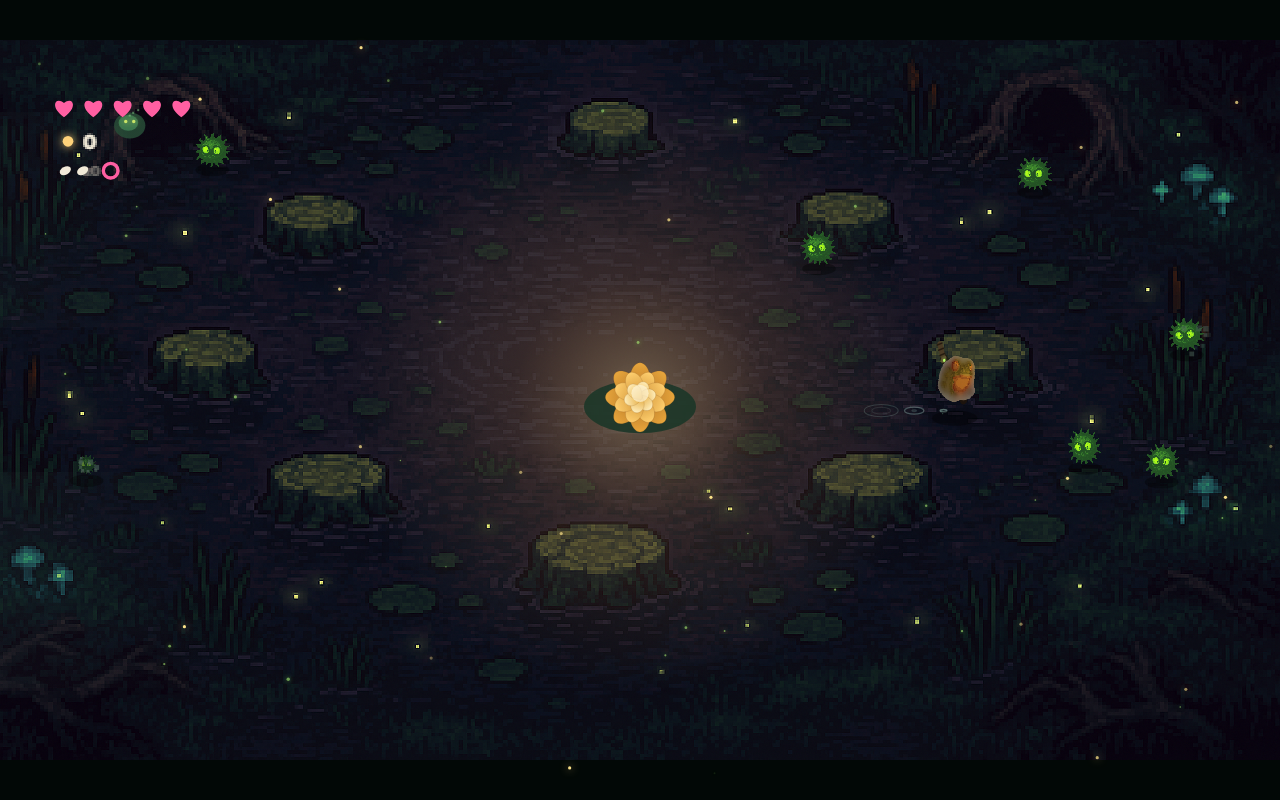
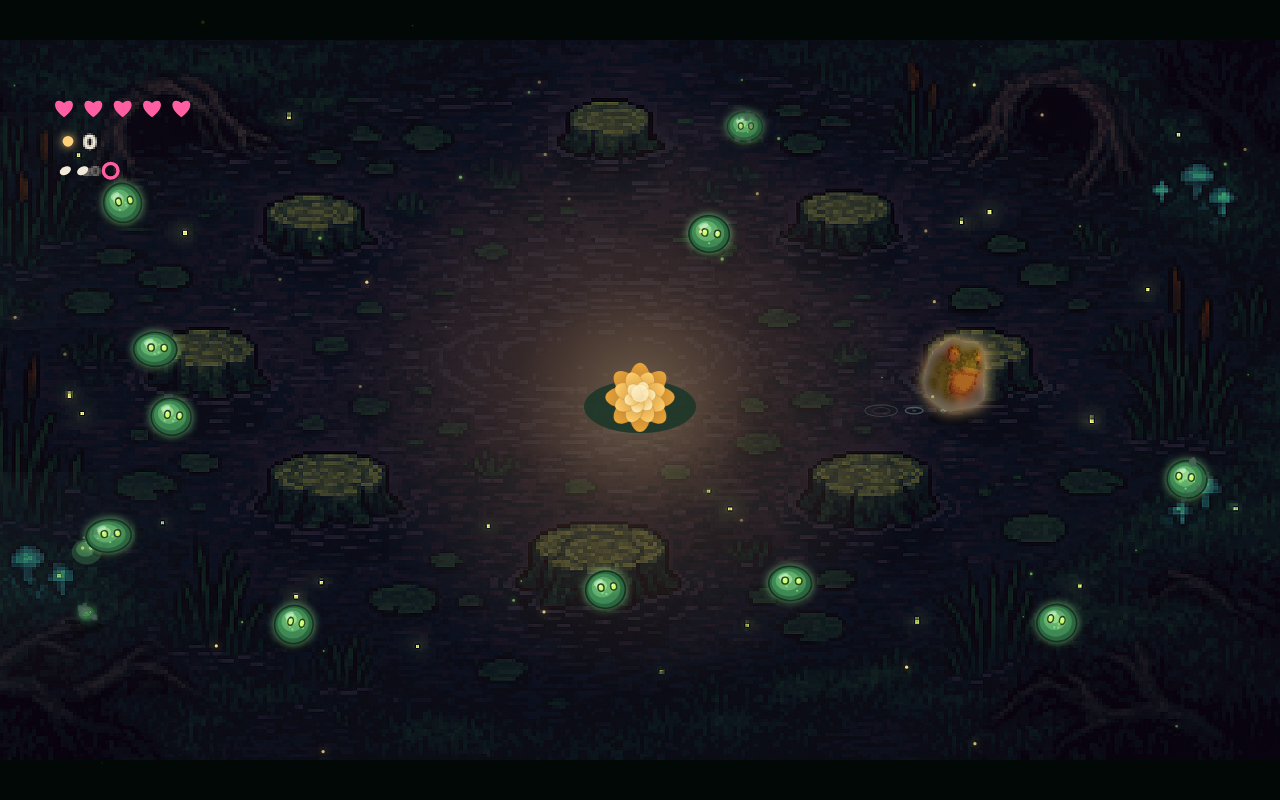
Gate round 2 (avg 6.25): lingering slash VFX + hit impact + muted lively slimes
R2 panel avg 6.25 (+0.75). Unanimous #1 gap: combat impact. Fixes:
- Lingering katana SLASH VFX (slashFx): hot crescent + razor white edge persists
  ~0.22s after each swing so the combat verb reads in motion AND stills (carnage
  shot now shows the frog carving a slime cluster). Biggest win.
- Hit-flash 0.1->0.16s + bright white glow-spark burst on contact.
- Slimes: muted grass-green (was mint, broke palette), wider edge->core shading +
  darker outline, desynced idle bob + stronger wobble (killed the clone hive-mind).
- Attack telegraph -> hot RED core (was gold, clashed w/ hero+loot).
- Frog rim softened (was haloed). Capsule capture phase1-02-swing (frog mid-swing).
Scores + open items in docs/GRADES.md. 23 tests green, typecheck clean, QA no errors.

diff --git a/src/render/render.ts b/src/render/render.ts
@@ -319,6 +319,57 @@ function drawSprite(ctx: CanvasRenderingContext2D, im: HTMLImageElement, x: numb
 // ---------- dash afterimages (render-local trail) ----------
 const trail: { x: number; y: number; life: number }[] = [];
 
+// ---------- lingering slash VFX (bright katana crescent that persists after a swing) ----------
+// Emitted the frame a swing goes active; fades over ~0.22s so the cut reads in motion AND in a
+// still frame (critics: swing is invisible / combat has no impact). One per swing (tick-guarded).
+interface SlashFx { x: number; y: number; a0: number; a1: number; reach: number; kind: 'light' | 'medium' | 'heavy'; t: number; life: number }
+const slashFx: SlashFx[] = [];
+let lastSlashTick = -1;
+let lastRenderTime = 0;
+
+function pushSlash(w: World, fx: number, fy: number): void {
+  const atk = w.frog.attack;
+  if (atk.phase !== 'active' || atk.frame !== 0 || w.tick === lastSlashTick || !atk.data) return;
+  lastSlashTick = w.tick;
+  const dir = atk.chainIdx % 2 === 0 ? 1 : -1;
+  const half = atk.data.arc / 2;
+  slashFx.push({ x: fx, y: fy, a0: atk.angle - dir * half, a1: atk.angle + dir * half, reach: atk.data.reach, kind: atk.data.cls, t: 0, life: 0.22 });
+  if (slashFx.length > 8) slashFx.shift();
+}
+
+function drawSlashFx(ctx: CanvasRenderingContext2D, time: number): void {
+  const dt = Math.min(0.05, Math.max(0, time - lastRenderTime));
+  lastRenderTime = time;
+  for (let i = slashFx.length - 1; i >= 0; i--) {
+    const s = slashFx[i];
+    s.t += dt;
+    if (s.t >= s.life) { slashFx.splice(i, 1); continue; }
+    const k = s.t / s.life;                       // 0->1
+    const fade = 1 - k;
+    const hot = s.kind === 'heavy' ? '255,214,120' : s.kind === 'medium' ? '255,232,150' : '190,255,150';
+    const r0 = s.reach * (0.5 + k * 0.12), r1 = s.reach * (1.02 + k * 0.1);   // expands slightly as it fades
+    ctx.save();
+    ctx.translate(s.x, s.y);
+    // hot crescent band
+    ctx.beginPath();
+    ctx.arc(0, 0, r1, s.a0, s.a1);
+    ctx.arc(0, 0, r0, s.a1, s.a0, true);
+    ctx.closePath();
+    const g = ctx.createRadialGradient(0, 0, r0, 0, 0, r1);
+    g.addColorStop(0, `rgba(${hot},0)`);
+    g.addColorStop(0.6, `rgba(${hot},${0.28 * fade})`);
+    g.addColorStop(1, `rgba(255,255,245,${0.5 * fade})`);
+    ctx.fillStyle = g;
+    ctx.fill();
+    // razor-thin ultra-bright leading edge at the arc's far side
+    ctx.globalCompositeOperation = 'lighter';
+    ctx.strokeStyle = `rgba(255,255,248,${0.9 * fade})`;
+    ctx.lineWidth = (s.kind === 'heavy' ? 5 : 3) * (1 - k * 0.4);
+    ctx.beginPath(); ctx.arc(0, 0, r1, s.a0, s.a1); ctx.stroke();
+    ctx.restore();
+  }
+}
+
 // ---------- main draw ----------
 export function draw(ctx: CanvasRenderingContext2D, w: World, cw: number, ch: number, alpha: number, time: number, paused: boolean) {
   if (!backdrop) backdrop = buildBackdrop();
@@ -430,6 +481,9 @@ export function draw(ctx: CanvasRenderingContext2D, w: World, cw: number, ch: nu
     ctx.beginPath(); ctx.ellipse(t.x, t.y, FROG_RADIUS * 0.9, FROG_RADIUS * 0.7, 0, 0, Math.PI * 2); ctx.fill();
   }
 
+  // lingering katana slashes (drawn over entities for punch)
+  drawSlashFx(ctx, time);
+
   // particles
   for (const p of particles) {
     ctx.globalAlpha = Math.max(0, p.life / p.maxLife);
@@ -460,6 +514,7 @@ function drawFrog(ctx: CanvasRenderingContext2D, w: World, fx: number, fy: numbe
     return;
   }
   const atk = f.attack;
+  pushSlash(w, fx, fy);                    // emit a lingering slash the frame a swing goes active
   const speed = Math.hypot(f.vx, f.vy);
   const moving = speed > 20 && f.dashT <= 0;
   // hop arc: 0 at ground contact -> 1 at apex -> 0, once per hop. Drives lift + squash/stretch.
@@ -515,8 +570,8 @@ function drawFrog(ctx: CanvasRenderingContext2D, w: World, fx: number, fy: numbe
     const dw = h * (frogImg.width / frogImg.height);
     const bx = -dw / 2, by = -h * 0.66;
     ctx.imageSmoothingEnabled = false;
-    // warm rim/hero-glow so the frog always pops off the stumps + water (value contrast)
-    ctx.shadowColor = 'rgba(255,206,130,0.95)'; ctx.shadowBlur = 16;
+    // soft warm rim so the frog reads lit (not haloed) and pops off the dark water
+    ctx.shadowColor = 'rgba(255,198,124,0.7)'; ctx.shadowBlur = 11;
     ctx.drawImage(frogImg, bx, by, dw, h);
     ctx.shadowBlur = 0;
     ctx.drawImage(frogImg, bx, by, dw, h);             // crisp body on top of the halo
@@ -698,24 +753,26 @@ function drawSwordAt(ctx: CanvasRenderingContext2D, w: World, time: number) {
 function drawAttackTell(ctx: CanvasRenderingContext2D, x: number, y: number, radius: number, p: number) {
   const rr = radius * (0.55 + p * 0.45);
   ctx.save();
-  const g = ctx.createRadialGradient(x, y, rr * 0.2, x, y, rr);
-  g.addColorStop(0, `rgba(255,120,60,${0.04 + p * 0.22})`);
-  g.addColorStop(0.75, `rgba(240,80,50,${0.03 + p * 0.14})`);
-  g.addColorStop(1, 'rgba(240,80,50,0)');
+  const g = ctx.createRadialGradient(x, y, rr * 0.15, x, y, rr);
+  g.addColorStop(0, `rgba(255,54,44,${0.08 + p * 0.3})`);      // hot red core = "danger" (not gold/loot)
+  g.addColorStop(0.7, `rgba(230,70,44,${0.03 + p * 0.14})`);
+  g.addColorStop(1, 'rgba(230,70,44,0)');
   ctx.fillStyle = g;
   ctx.beginPath(); ctx.ellipse(x, y, rr, rr * 0.55, 0, 0, Math.PI * 2); ctx.fill();
   // filling wedge sweep (clock hand) so the timing reads
-  ctx.strokeStyle = `rgba(255,190,120,${0.35 + p * 0.55})`;
+  ctx.strokeStyle = `rgba(255,110,80,${0.4 + p * 0.55})`;
   ctx.lineWidth = 1.5 + p * 2.5;
   ctx.beginPath(); ctx.ellipse(x, y, rr, rr * 0.55, 0, -Math.PI / 2, -Math.PI / 2 + p * Math.PI * 2); ctx.stroke();
   ctx.restore();
 }
 
 // per-kind slime palettes (muted swamp greens, tonal bands edge->core for a shaded sphere)
+// Muted swamp-greens (grass, not cyan-mint) with a WIDE edge->core value range so the sphere
+// reads as shaded not flat, and dark outlines to sit in the palette (critics R2: too bright + flat).
 const SLIME_PAL: Record<string, { outline: string; edge: string; mid: string; hi: string; core: string; fleck: string }> = {
-  blobbit: { outline: '#153320', edge: '#2c6640', mid: '#3f8a54', hi: '#5fae6f', core: '#8fd693', fleck: 'rgba(160,245,160,0.6)' },
-  spikeblob: { outline: '#0e2618', edge: '#244f38', mid: '#356a48', hi: '#4d8a5c', core: '#72b481', fleck: 'rgba(130,215,150,0.5)' },
-  gloopa: { outline: '#1b2a12', edge: '#465838', mid: '#647a46', hi: '#8a9d5c', core: '#bccb86', fleck: 'rgba(205,225,150,0.5)' },
+  blobbit: { outline: '#0c2015', edge: '#1d4529', mid: '#316a3f', hi: '#54985a', core: '#83c877', fleck: 'rgba(150,235,140,0.5)' },
+  spikeblob: { outline: '#0a1c14', edge: '#1a4230', mid: '#2c5f42', hi: '#468456', core: '#6cae70', fleck: 'rgba(120,205,135,0.45)' },
+  gloopa: { outline: '#141f0e', edge: '#3a4a2c', mid: '#586a3c', hi: '#828f52', core: '#aec079', fleck: 'rgba(195,215,140,0.45)' },
 };
 
 /** A soft ROUND cute jelly slime: shaded tonal-band body, gloss, internal flecks, big glowing
@@ -723,7 +780,7 @@ const SLIME_PAL: Record<string, { outline: string; edge: string; mid: string; hi
 function drawSlime(ctx: CanvasRenderingContext2D, e: Enemy, r: number, time: number, warm: boolean) {
   const flash = e.flashT > 0;
   const P = SLIME_PAL[e.kind] ?? SLIME_PAL.blobbit;
-  const wob = 1 + Math.sin(time * 4 + e.seed * 10) * 0.045;   // jelly wobble
+  const wob = 1 + Math.sin(time * (3.4 + (e.seed % 0.7) * 3) + e.seed * 10) * 0.08;   // jelly wobble, desynced
   const rx = r * 1.04 * wob, ry = r * 0.94 / wob;
 
   // dark outline + soft bioluminescent rim (separates from dark water & foliage)
@@ -839,6 +896,9 @@ function drawEnemy(ctx: CanvasRenderingContext2D, e: Enemy, alpha: number, time:
     ctx.rotate(Math.sin(wadT) * 0.18);
     ctx.translate(0, -wadHop);
     ctx.scale(1 + Math.cos(wadT * 2) * 0.1, 1 - Math.cos(wadT * 2) * 0.1);
+  } else {
+    // idle bob — per-instance phase so a crowd never syncs (critics: "wall of clones")
+    ctx.translate(0, Math.sin(time * 2.4 + e.seed * 25) * r * 0.09);
   }
   if (e.flashT > 0) ctx.scale(1.3, 0.72);           // hard flatten recoil on hit (juice)
   drawSlime(ctx, e, r, time, warm);

diff --git a/src/feel/feel.ts b/src/feel/feel.ts
@@ -116,7 +116,8 @@ export function consumeEvents(w: World): void {
       case 'swingHeavy': sfx('swingHeavy'); break;
       case 'hit': {
         const ang = Math.atan2(e.dirY, e.dirX);
-        spawnParticles(e.x, e.y, 6, { angle: ang, spread: 0.9, speed: 260, color: '#fff', maxLife: 0.22, size: 3 });
+        // bright directional spark spray + a hot flash-ring at contact (impact reads)
+        spawnParticles(e.x, e.y, e.cls === 'heavy' ? 16 : 10, { angle: ang, spread: 0.8, speed: 340, color: '#fdffe8', maxLife: 0.26, size: 4, glow: true });
         spawnParticles(e.x, e.y, e.cls === 'heavy' ? 14 : 6, { angle: ang, spread: 1.1, speed: 320, color: SLUDGE, maxLife: 0.5, size: 4, gravity: 300, drag: 3 });
         if (Math.random() < (e.cls === 'heavy' ? 0.5 : 0.18)) addDecal(e.x + e.dirX * 24, e.y + e.dirY * 24, 'blood', ang, e.cls === 'heavy' ? 0.7 : 0.5);
         addTrauma(e.cls === 'heavy' ? TRAUMA_HEAVY : TRAUMA_LIGHT);

diff --git a/src/sim/combat.ts b/src/sim/combat.ts
@@ -69,7 +69,7 @@ export function applyMeleeHit(
     e.armorFlashT = 0.12;
     e.freeze = Math.max(e.freeze, 1);
   } else {
-    e.flashT = 0.1;
+    e.flashT = 0.16;                        // longer white hit-flash so contact reads (critics)
     e.freeze = Math.max(e.freeze, vFrames);
   }
 
@@ -104,7 +104,7 @@ export function applyMeleeHit(
 export function applyPhysicsDamage(w: World, e: Enemy, dmg: number, dirX: number, dirY: number): boolean {
   const hpBefore = e.hp;
   e.hp -= dmg;
-  e.flashT = 0.08;
+  e.flashT = 0.12;
   e.freeze = Math.max(e.freeze, 2);
   const killed = e.hp <= 0;
   if (killed) killEnemy(w, e, dirX, dirY, dmg >= hpBefore * OVERKILL_MULT);

diff --git a/docs/GRADES.md b/docs/GRADES.md
@@ -22,6 +22,27 @@ Honest, externally-verifiable gate status. No self-graded passes. See `design/11
 **Fixes applied this round:** frog 3.0→4.8 + warm hero rim; enemies muted colorize + softer regen + biolum rim + grounding + bigger + stronger waddle/hit-recoil; swing crescent bright + white cut-line; attack telegraph → authored filling danger-zone (was debug ring); density 8→14 start/cap 52/cadence 12→7.
 **Still OPEN:** enemy silhouette still spiky (gpt-image-1 refuses round → go PROCEDURAL slime next); re-verify blink/croak/walk at new size; brightness/contrast for thumbnail; HUD pip clarity; enemy variety; capsule frame w/ active slash.
 
+### Round 2 — 2026-07-08 (procedural slimes + round-1 fixes)
+| Critic | Score (Δ) | Headline |
+|---|---|---|
+| Judge 1 — Art | 6.0 (+1.0) | Env top-tier; slimes now too BRIGHT/mint break palette; frog rim too haloed; katana invisible |
+| Judge 2 — Animation | 6.0 (+0.5) | Frog weighty+good; slimes a clone hive-mind (no phase variety/hop); connect kill to swing |
+| Judge 3 — Feel | 6.5 (+1.0) | Swing reads grey not bright; NO hit-flash landing; telegraph shares gold w/ hero+loot |
+| Judge 4 — Creative | 7.5 (+1.0) | Real $15 game; world=9 hero=6; katana/combat-verb invisible in stills; HUD placeholder |
+| Blind 1 | 6.0 (+1.5) | Vibe premium; enemies flat placeholder ovals; combat no impact language; dark/empty |
+| Blind 2 | 5.5 (−0.5) | Enemies flat 2-dot blobs clump unreadable; HUD debug-tier; attacks ambiguous |
+| **AVERAGE** | **6.25 (+0.75)** | Climbing. Combat impact = the unanimous #1 gap. |
+
+**Fixes applied this round (combat-impact batch):**
+- **Lingering katana SLASH VFX** (`slashFx`): bright hot crescent + razor white edge persists ~0.22s after a swing → combat verb now READS in motion + stills (see phase1-04-carnage). Biggest win.
+- Hit-flash longer (0.1→0.16s) + bright white glow-spark burst on contact.
+- Slimes: muted grass-green palette (was mint) + wider edge→core shading + darker outline; desynced idle bob + stronger wobble (kill clone-sync).
+- Telegraph → hot RED core (was gold, shared w/ hero/loot).
+- Frog rim softened (less haloed).
+- QA: capsule capture `phase1-02-swing` (frog mid-active next to enemies).
+
+**Still OPEN for R3:** HUD cluster reads debug (all blinds+art+creative) — redesign; frog katana bigger/readable + brighter core; enemy variety visible; connect an anticipation/follow-through pose; env depth/brightness; capsule capture polish.
+
 ---
 
 ## Phase 1 — The Swing Test  ·  STATUS: CORE PROVEN, GATE NOT PASSED
